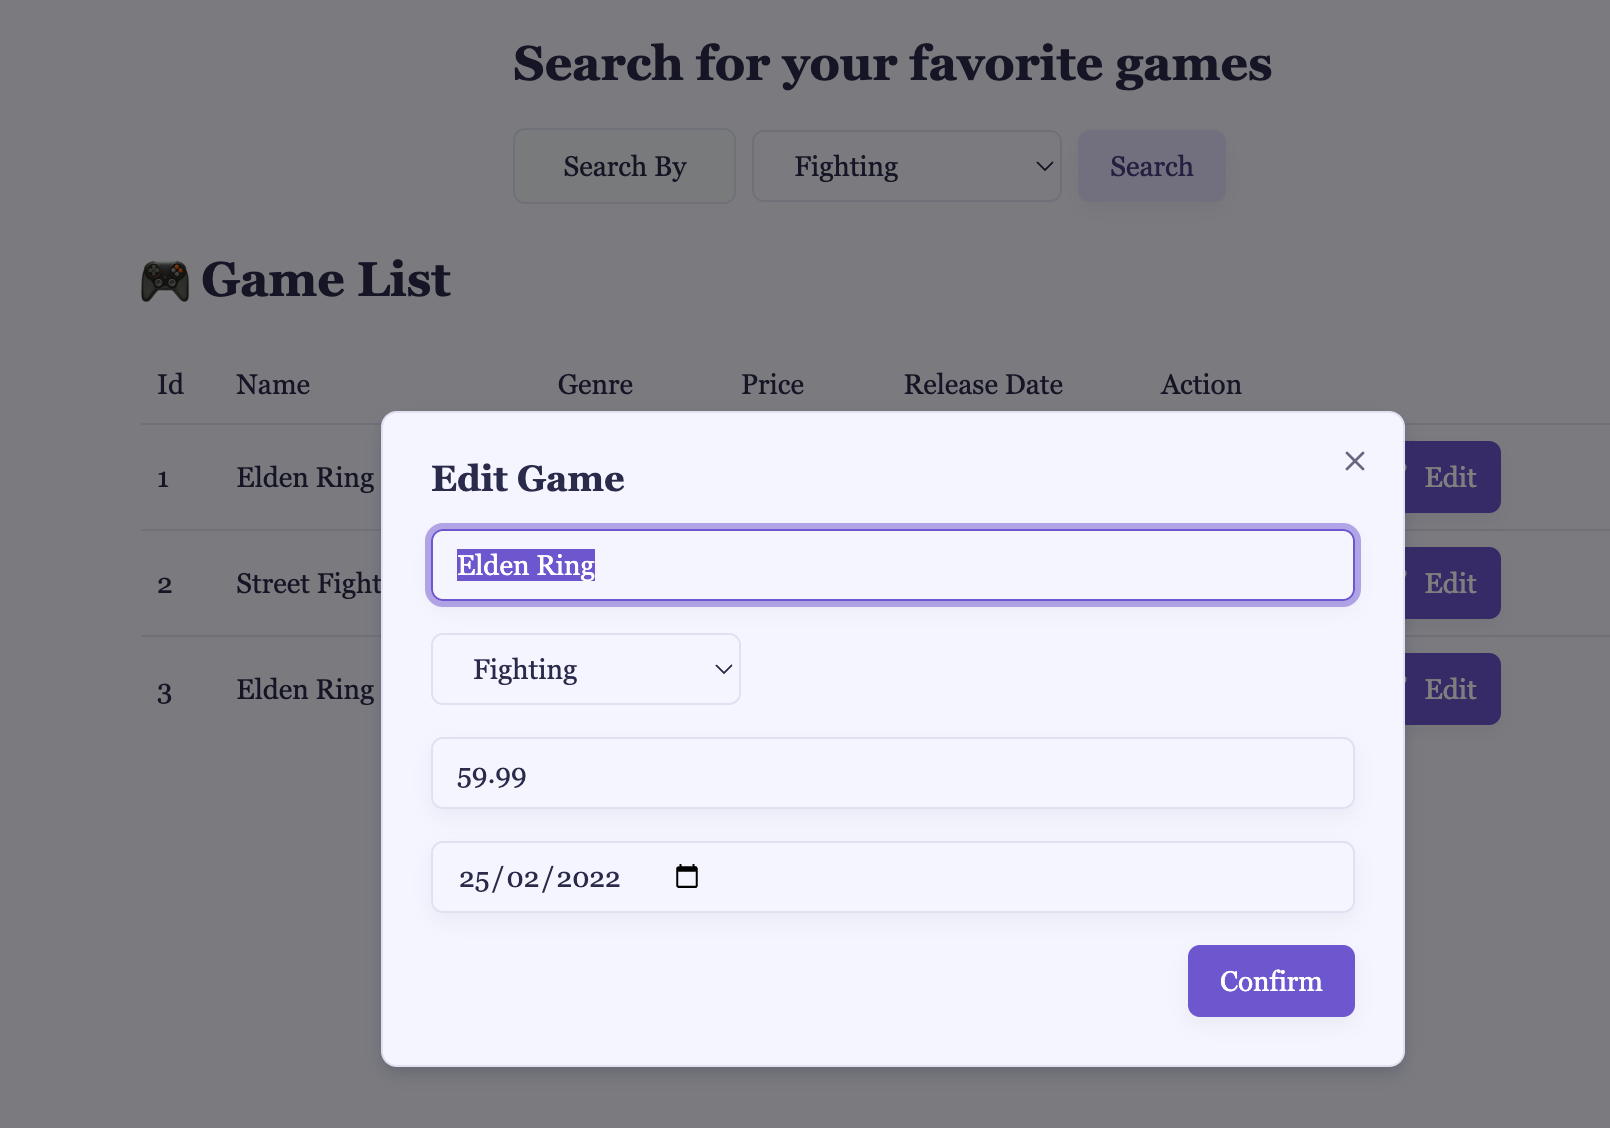
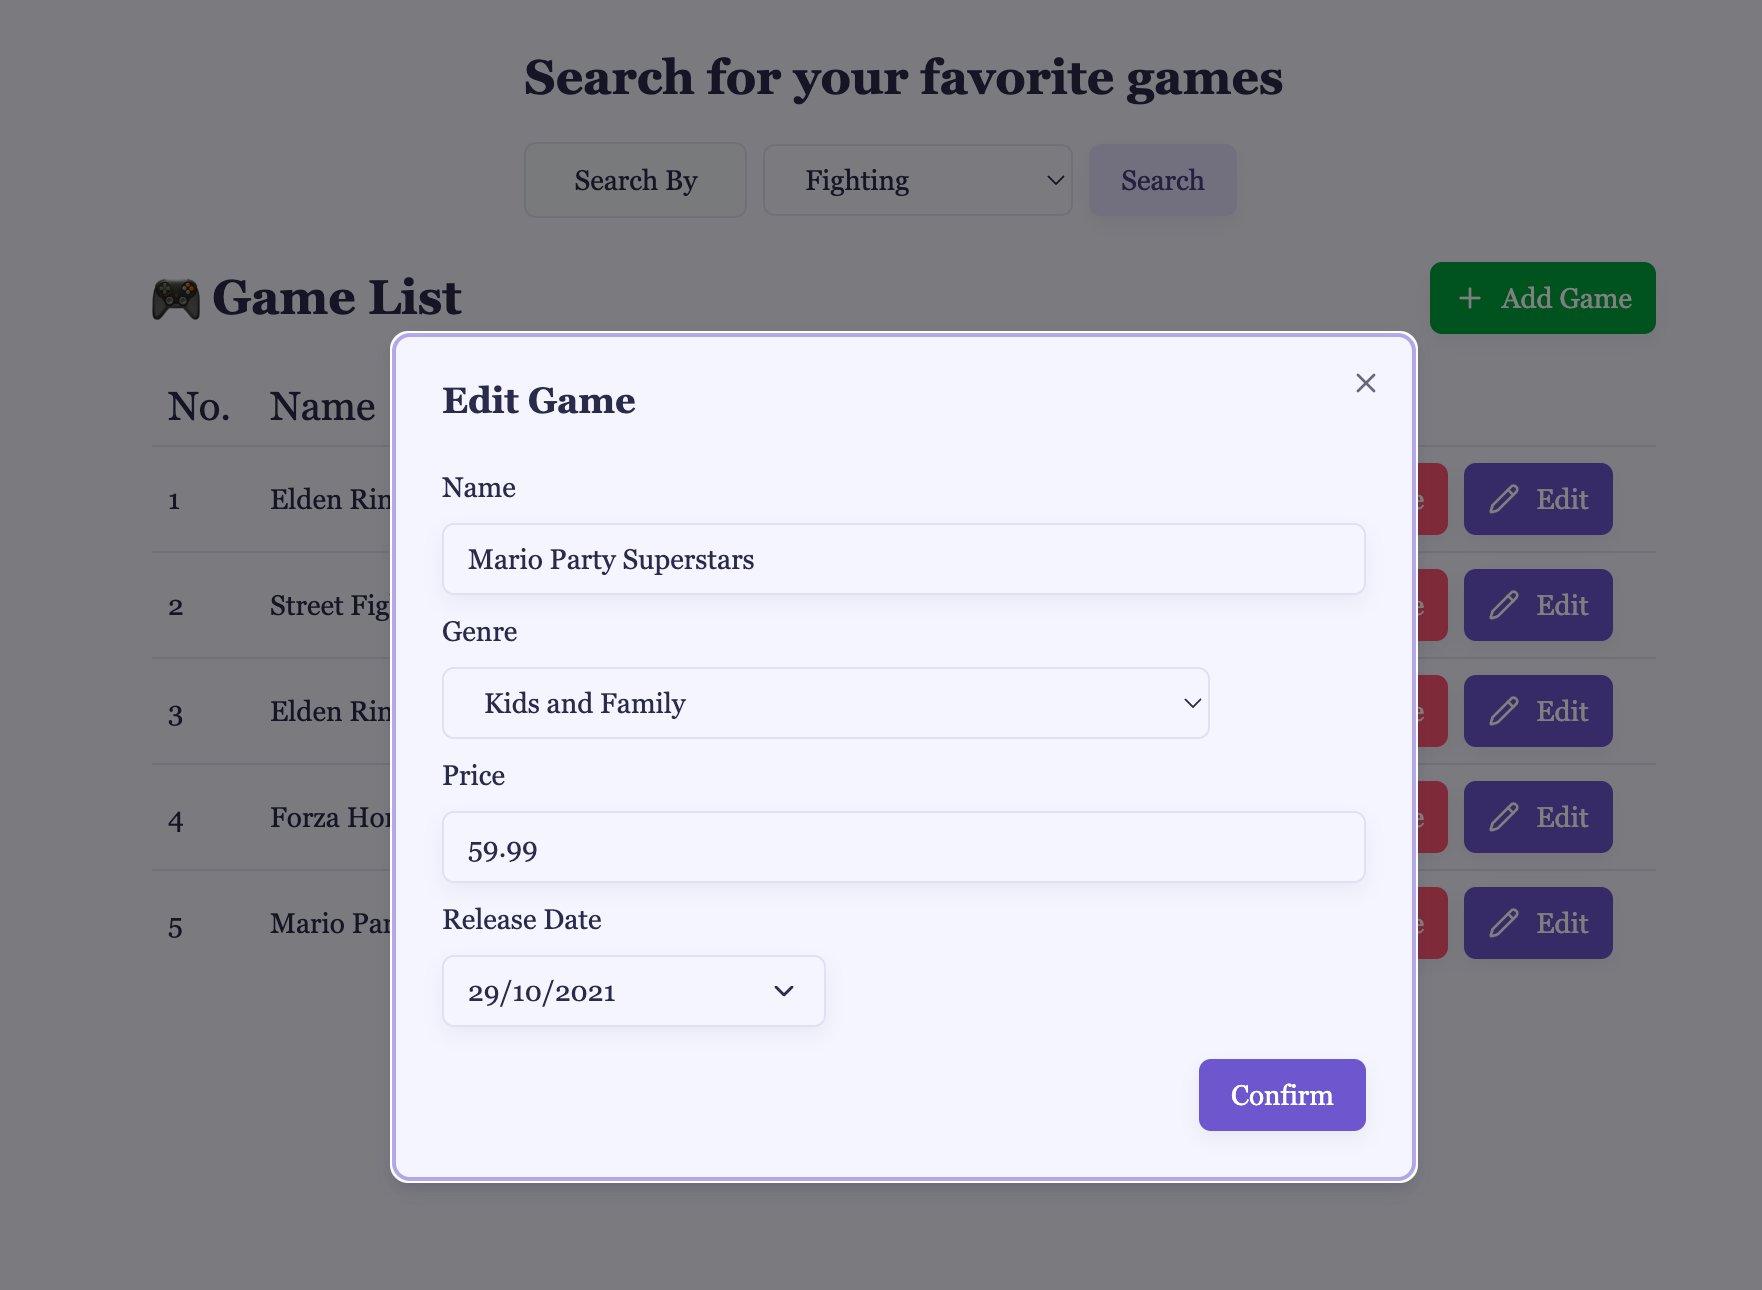
fix bugs

diff --git a/frontend/src/stores/actions/gameActions.ts b/frontend/src/stores/actions/gameActions.ts
@@ -59,7 +59,7 @@ export class GameActions {
     GameUtils.logGameOperation("Updating game", payload);
 
     const savedGame = await update(payload);
-    toast.success(`Game ID ${savedGame.id} updated successfully`);
+    toast.success(`Game updated successfully`);
     return savedGame;
   }
 
@@ -69,7 +69,7 @@ export class GameActions {
   static async deleteGame(id: number): Promise<boolean> {
     const success = await remove(id);
     if (success) {
-      toast.success(`Game ID ${id} deleted successfully`);
+      toast.success(`Game ID: ${id} deleted successfully`);
     } else {
       toast.error("Failed to delete game on server");
     }

diff --git a/frontend/src/components/GameAddModal.tsx b/frontend/src/components/GameAddModal.tsx
@@ -60,6 +60,11 @@ export default function GameEditModal({
       return;
     }
 
+    if (parsedPrice < 1 || parsedPrice > 100) {
+      toast.error('Price must be between $1 and $100');
+      return;
+    }
+
     const genreId = getGenreIdByName(genre);
     if (!genreId) {
       toast.error('Invalid genre selected');

diff --git a/frontend/src/components/GameEditModal.tsx b/frontend/src/components/GameEditModal.tsx
@@ -64,6 +64,11 @@ export default function GameEditModal({
       return;
     }
 
+    if (parsedPrice < 1 || parsedPrice > 100) {
+      toast.error('Price must be between $1 and $100');
+      return;
+    }
+
     const genreId = getGenreIdByName(genre);
     if (!genreId) {
       toast.error('Invalid genre selected');

diff --git a/GameStore.Api/obj/Debug/net9.0/GameStore.Api.AssemblyInfo.cs b/GameStore.Api/obj/Debug/net9.0/GameStore.Api.AssemblyInfo.cs
@@ -13,7 +13,7 @@ using System.Reflection;
 [assembly: System.Reflection.AssemblyCompanyAttribute("GameStore.Api")]
 [assembly: System.Reflection.AssemblyConfigurationAttribute("Debug")]
 [assembly: System.Reflection.AssemblyFileVersionAttribute("1.0.0.0")]
-[assembly: System.Reflection.AssemblyInformationalVersionAttribute("1.0.0+f79bce1f9c8eaf0fed8eaada8b17b1384499b84d")]
+[assembly: System.Reflection.AssemblyInformationalVersionAttribute("1.0.0+179ddfd4c0c28c989c168a420bcc8d6076192cdd")]
 [assembly: System.Reflection.AssemblyProductAttribute("GameStore.Api")]
 [assembly: System.Reflection.AssemblyTitleAttribute("GameStore.Api")]
 [assembly: System.Reflection.AssemblyVersionAttribute("1.0.0.0")]

diff --git a/README.md b/README.md
@@ -14,10 +14,17 @@ A modern full-stack game management application built with .NET Core API and Nex
 
 ![Game Screenshot](/frontend/public/readme/edit.png)
 
+### Add Game
+
+![Game Screenshot](/frontend/public/readme/add.png)
+
 ### Search Feature (By Name or Genres)
 
-![Game Screenshot](/frontend/public/readme/searchBy.png)
-![Game Screenshot](/frontend/public/readme/searchFighting.png)
+![Game Screenshot](/frontend/public/readme/search.png)
+
+### Delete Game
+
+![Game Screenshot](/frontend/public/readme/delete.png)
 
 ## 🖥 Local Development
 
